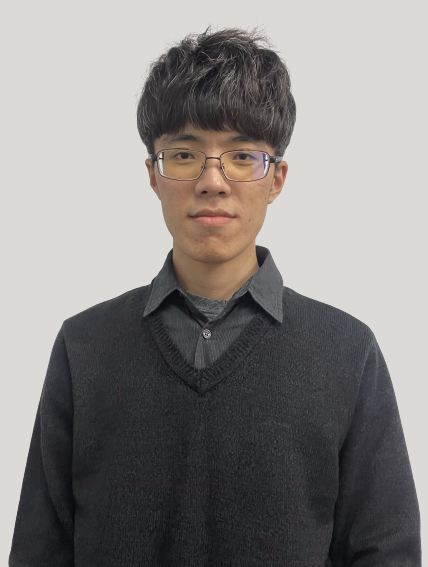
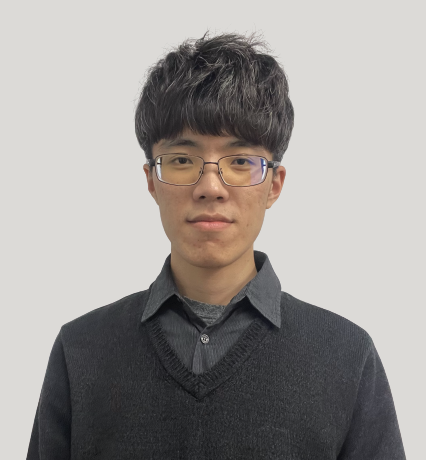
pushed from Home by circleci

diff --git a/index.html b/index.html
@@ -1660,7 +1660,7 @@ With Christmas, the new year is also around the corner and our wish for the upco
           
               <a href="/author/chien-cheng-su/">
           
-          <img class="avatar avatar-circle" src="/author/chien-cheng-su/avatar_hua21fb0319a7934c7bdcb7599ac456e91_233658_270x270_fill_lanczos_center_2.png" alt="Avatar">
+          <img class="avatar avatar-circle" src="/author/chien-cheng-su/avatar_hubcd81d7301f6f07e12c782af4bc8dadf_165510_270x270_fill_lanczos_center_2.png" alt="Avatar">
           
             </a>
           

diff --git a/author/chien-cheng-su/index.html b/author/chien-cheng-su/index.html
@@ -642,7 +642,7 @@
 
         
         
-        <img class="avatar avatar-circle" src="/author/chien-cheng-su/avatar_hua21fb0319a7934c7bdcb7599ac456e91_233658_270x270_fill_lanczos_center_2.png" alt="Chien-Cheng, Su">
+        <img class="avatar avatar-circle" src="/author/chien-cheng-su/avatar_hubcd81d7301f6f07e12c782af4bc8dadf_165510_270x270_fill_lanczos_center_2.png" alt="Chien-Cheng, Su">
         
 
         <div class="portrait-title">
